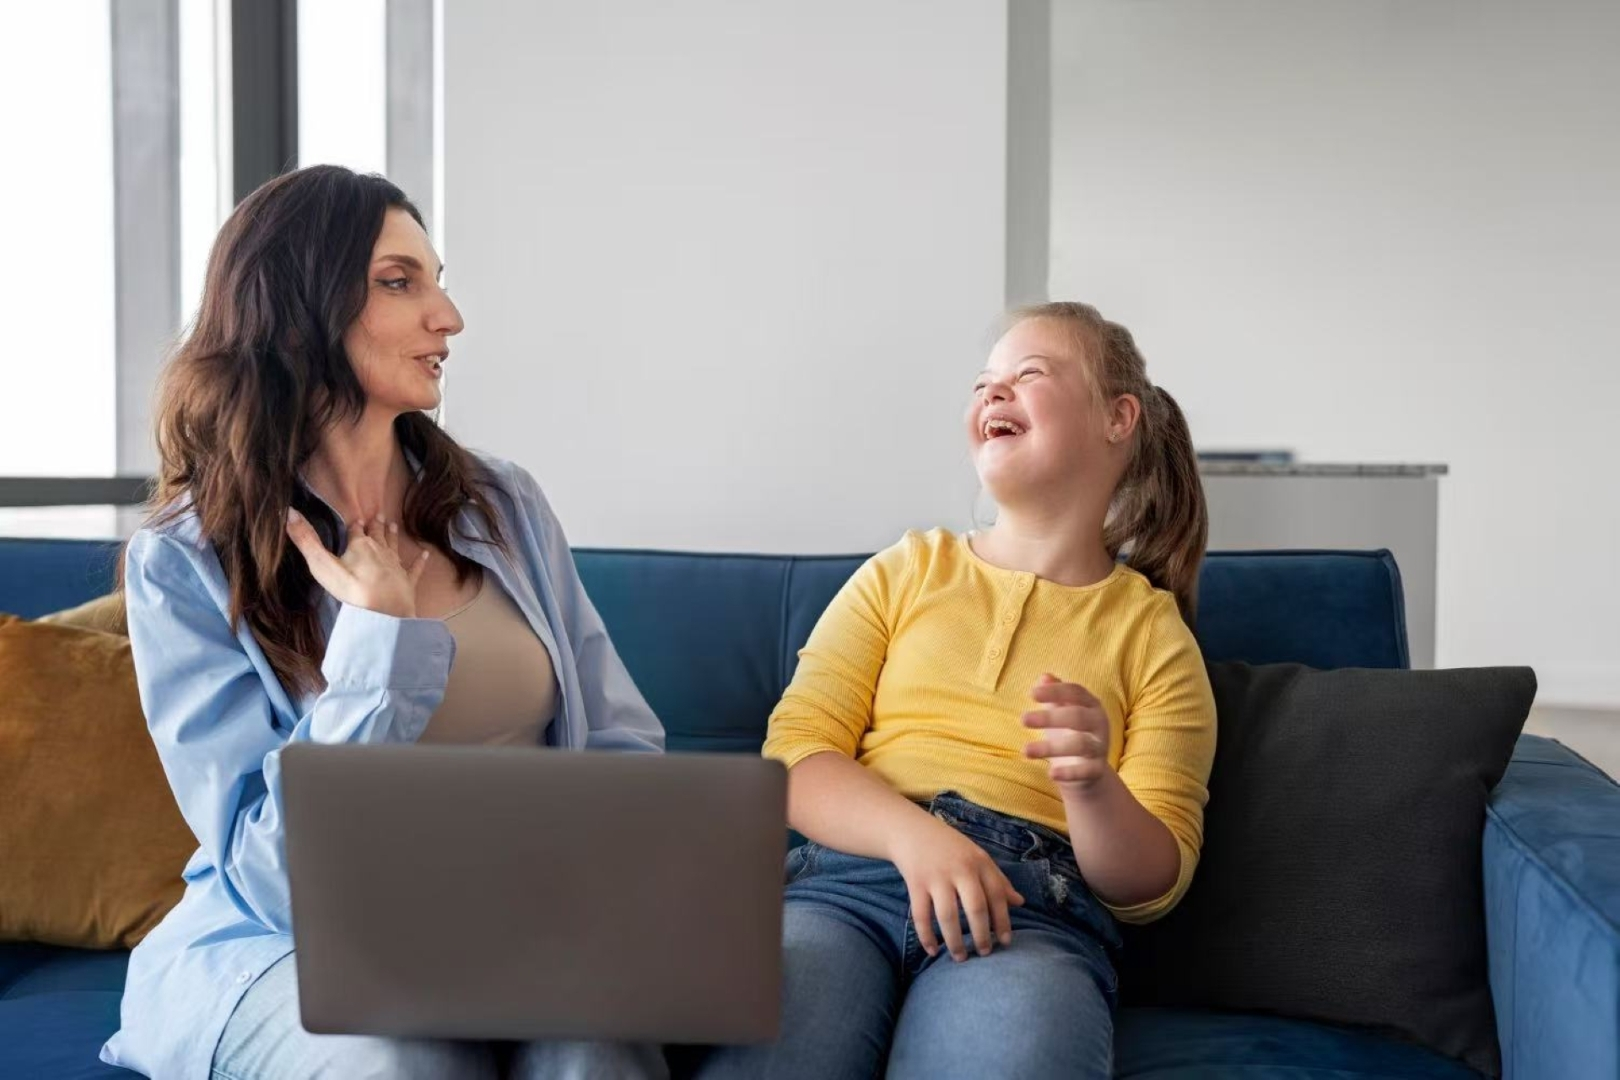
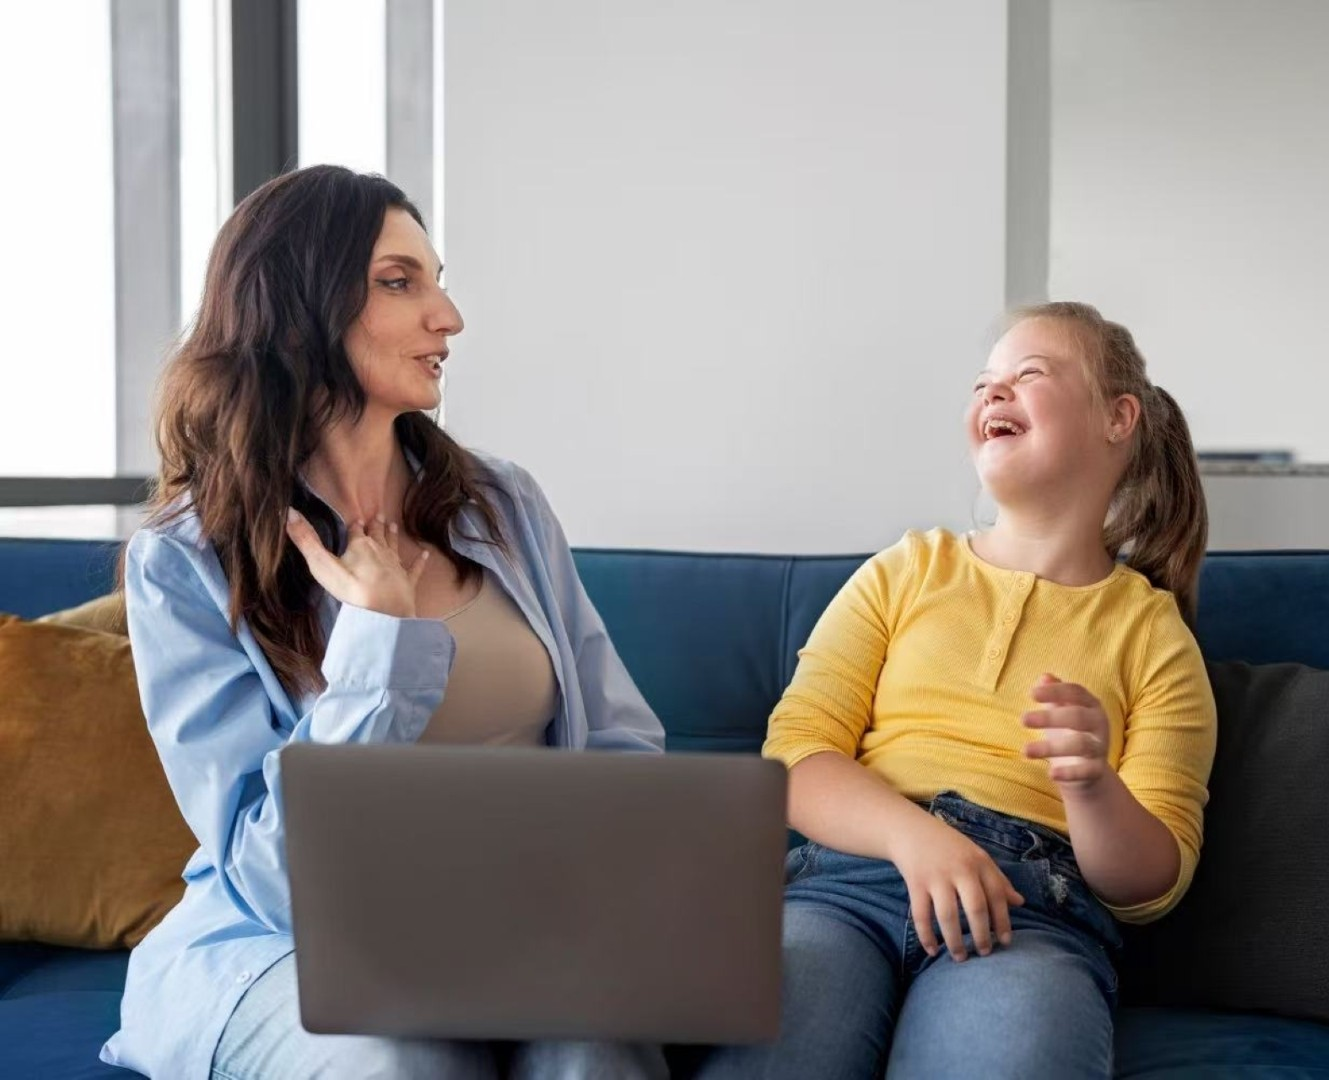
Add background pictures

diff --git a/about.html b/about.html
@@ -22,7 +22,7 @@
     </div>
 </header>
 
-<section class="page-header">
+<section class="page-header page-header-about has-bg">
     <div class="container">
         <h1>About Empower U Service</h1>
         <p>Empowering people to live independently and with dignity.</p>
@@ -37,13 +37,14 @@
             <p>Led by experienced registered nurses, our passionate team is committed to making a positive difference in the lives of people with diverse abilities across Australia. We deliver high-quality, person-centred support that empowers individuals to live independently and with dignity.</p>
 
             <h2>Our Mission</h2>
-            <p>To empower individuals with disability by providing compassionate, reliable, and tailored support that promotes independence, choice, and community inclusion.</p>
+            <p>To empower individuals by providing compassionate, reliable, and tailored support that promotes independence, choice, and community inclusion.</p>
 
             <h2>Our Values</h2>
             <div class="values-list">
-                <div class="value-item"><h3>Respect</h3><p>We treat every person with dignity and honour their choices.</p></div>
                 <div class="value-item"><h3>Empowerment</h3><p>We support people to build skills and confidence to live independently.</p></div>
-                <div class="value-item"><h3>Inclusion</h3><p>We champion community participation and belonging for all.</p></div>
+                <div class="value-item"><h3>Enrichment</h3><p>We believe that life is about more than just meeting basic needs. Through meaningful activities, social connection, and personal growth opportunities, we enrich the daily lives of those we support — helping each person discover joy, purpose, and new possibilities every day.</p></div>
+                <div class="value-item"><h3>Enhancement</h3><p>We are committed to enhancing the skills, confidence, and independence of every individual. Whether it's learning to manage a household, building communication abilities, or developing community connections, we focus on practical, strengths-based support that helps people reach their full potential.</p></div>
+                <div class="value-item"><h3>Embracing</h3><p>We embrace each person's unique background, culture, abilities, and aspirations. By fostering an inclusive environment where everyone feels accepted and celebrated, we create a community where people with disability are truly valued and belong.</p></div>
                 <div class="value-item"><h3>Excellence</h3><p>We strive for the highest standard of care in everything we do.</p></div>
             </div>
         </div>

diff --git a/css/style.css b/css/style.css
@@ -100,7 +100,7 @@ img { max-width: 100%; display: block; }
     padding: 5rem 0;
     text-align: center;
     overflow: hidden;
-    background-image: url("../assets/images/background1.jpg");
+    background-image: url("../assets/images/background.jpg");
     background-size: cover;
     background-position: center 15%;
     background-repeat: no-repeat;
@@ -494,3 +494,34 @@ body.high-contrast .hero::before {
     height: auto;       /* 高度自适应 */
     border-radius: 10px;/* 圆角 */
 }
+
+/* ── Page Header 通用背景图样式（恢复铺满+居中不重复） ── */
+.page-header.has-bg {
+    background-repeat: no-repeat;
+    background-size: cover;
+    background-position: center 20%; /* 偏上，防止头部/人物被裁 */
+    position: relative;
+    padding: 4.5rem 0;       /* 上下宽度适中（之前7rem太夸张，现回调） */
+    min-height: 480px;       /* 降低兜底高度，避免过高 */
+    display: flex;
+    align-items: center;
+}
+
+.page-header.has-bg::before {
+    content: '';
+    position: absolute;
+    inset: 0;
+    background: linear-gradient(135deg, rgba(0,132,61,0.85), rgba(0,132,61,0.55));
+    z-index: 1;
+}
+
+.page-header.has-bg .container {
+    position: relative;
+    z-index: 2;
+}
+
+/* 各页面图片路径（每页只管这一行） */
+.page-header-about   { background-image: url("../assets/images/welovendis.jpg"); }
+.page-header-services{background-image: url("../assets/images/services.jpg"); }
+.page-header-contact { background-image: url("../assets/images/contact.jpg"); 
+    padding: 2.5rem 0;}    

diff --git a/contact.html b/contact.html
@@ -24,7 +24,7 @@
     </div>
 </header>
 
-<section class="page-header">
+<section class="page-header page-header-contact has-bg">
     <div class="container">
         <h1>Contact Us</h1>
         <p>Get in touch — we're here to help with your NDIS journey.</p>
@@ -34,7 +34,6 @@
 <section class="contact-section">
     <div class="container">
         <div class="contact-grid">
-            <!-- Contact Form (disabled)
             <div class="contact-form-wrapper">
                 <h2>Send us a message</h2>
                 <form class="contact-form" action="https://formspree.io/f/YOUR_FORM_ID" method="POST">
@@ -66,7 +65,6 @@
                     <button type="submit" class="btn btn-primary btn-full">Send Message</button>
                 </form>
             </div>
-            -->
             <div class="contact-info">
                 <h2>Get in touch</h2>
                 <div class="info-item"><h3>✉ Email</h3><p><a href="mailto:hello@empoweruservice.com">hello@empoweruservice.com</a></p></div>

diff --git a/services.html b/services.html
@@ -22,7 +22,7 @@
     </div>
 </header>
 
-<section class="page-header">
+<section class="page-header page-header-services has-bg">
     <div class="container">
         <h1>Our Services</h1>
         <p>Comprehensive NDIS support tailored to your goals and lifestyle.</p>
